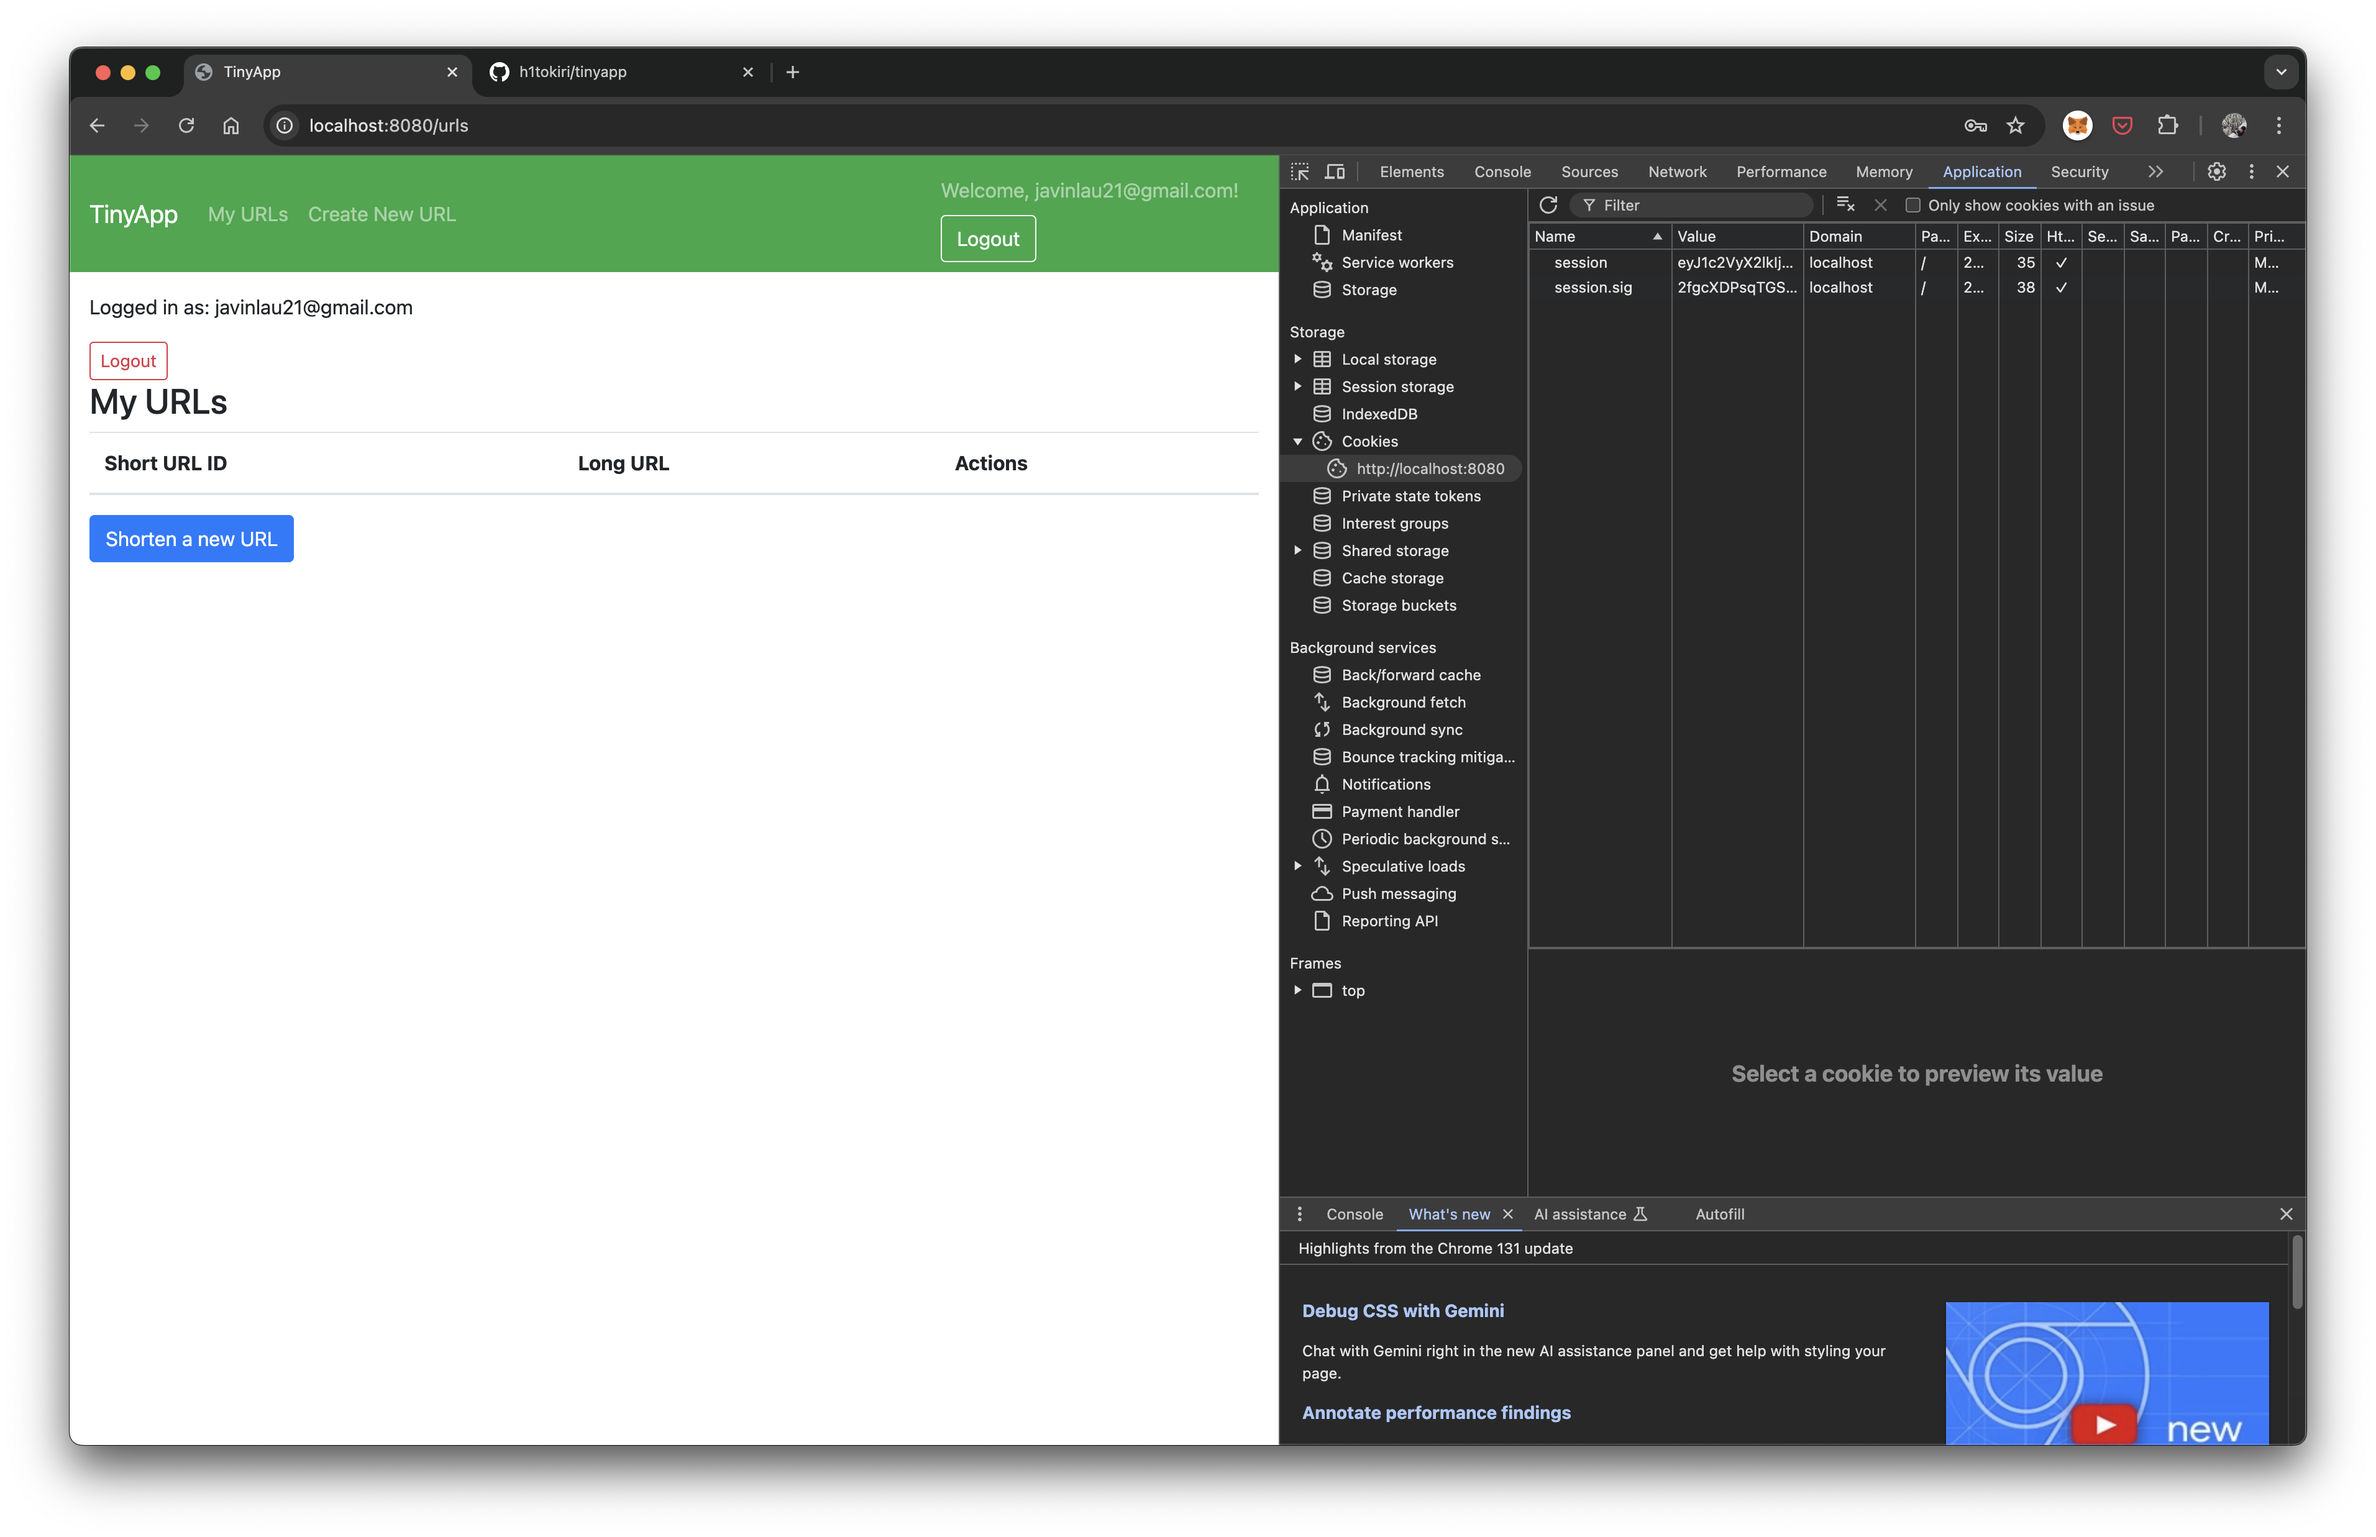
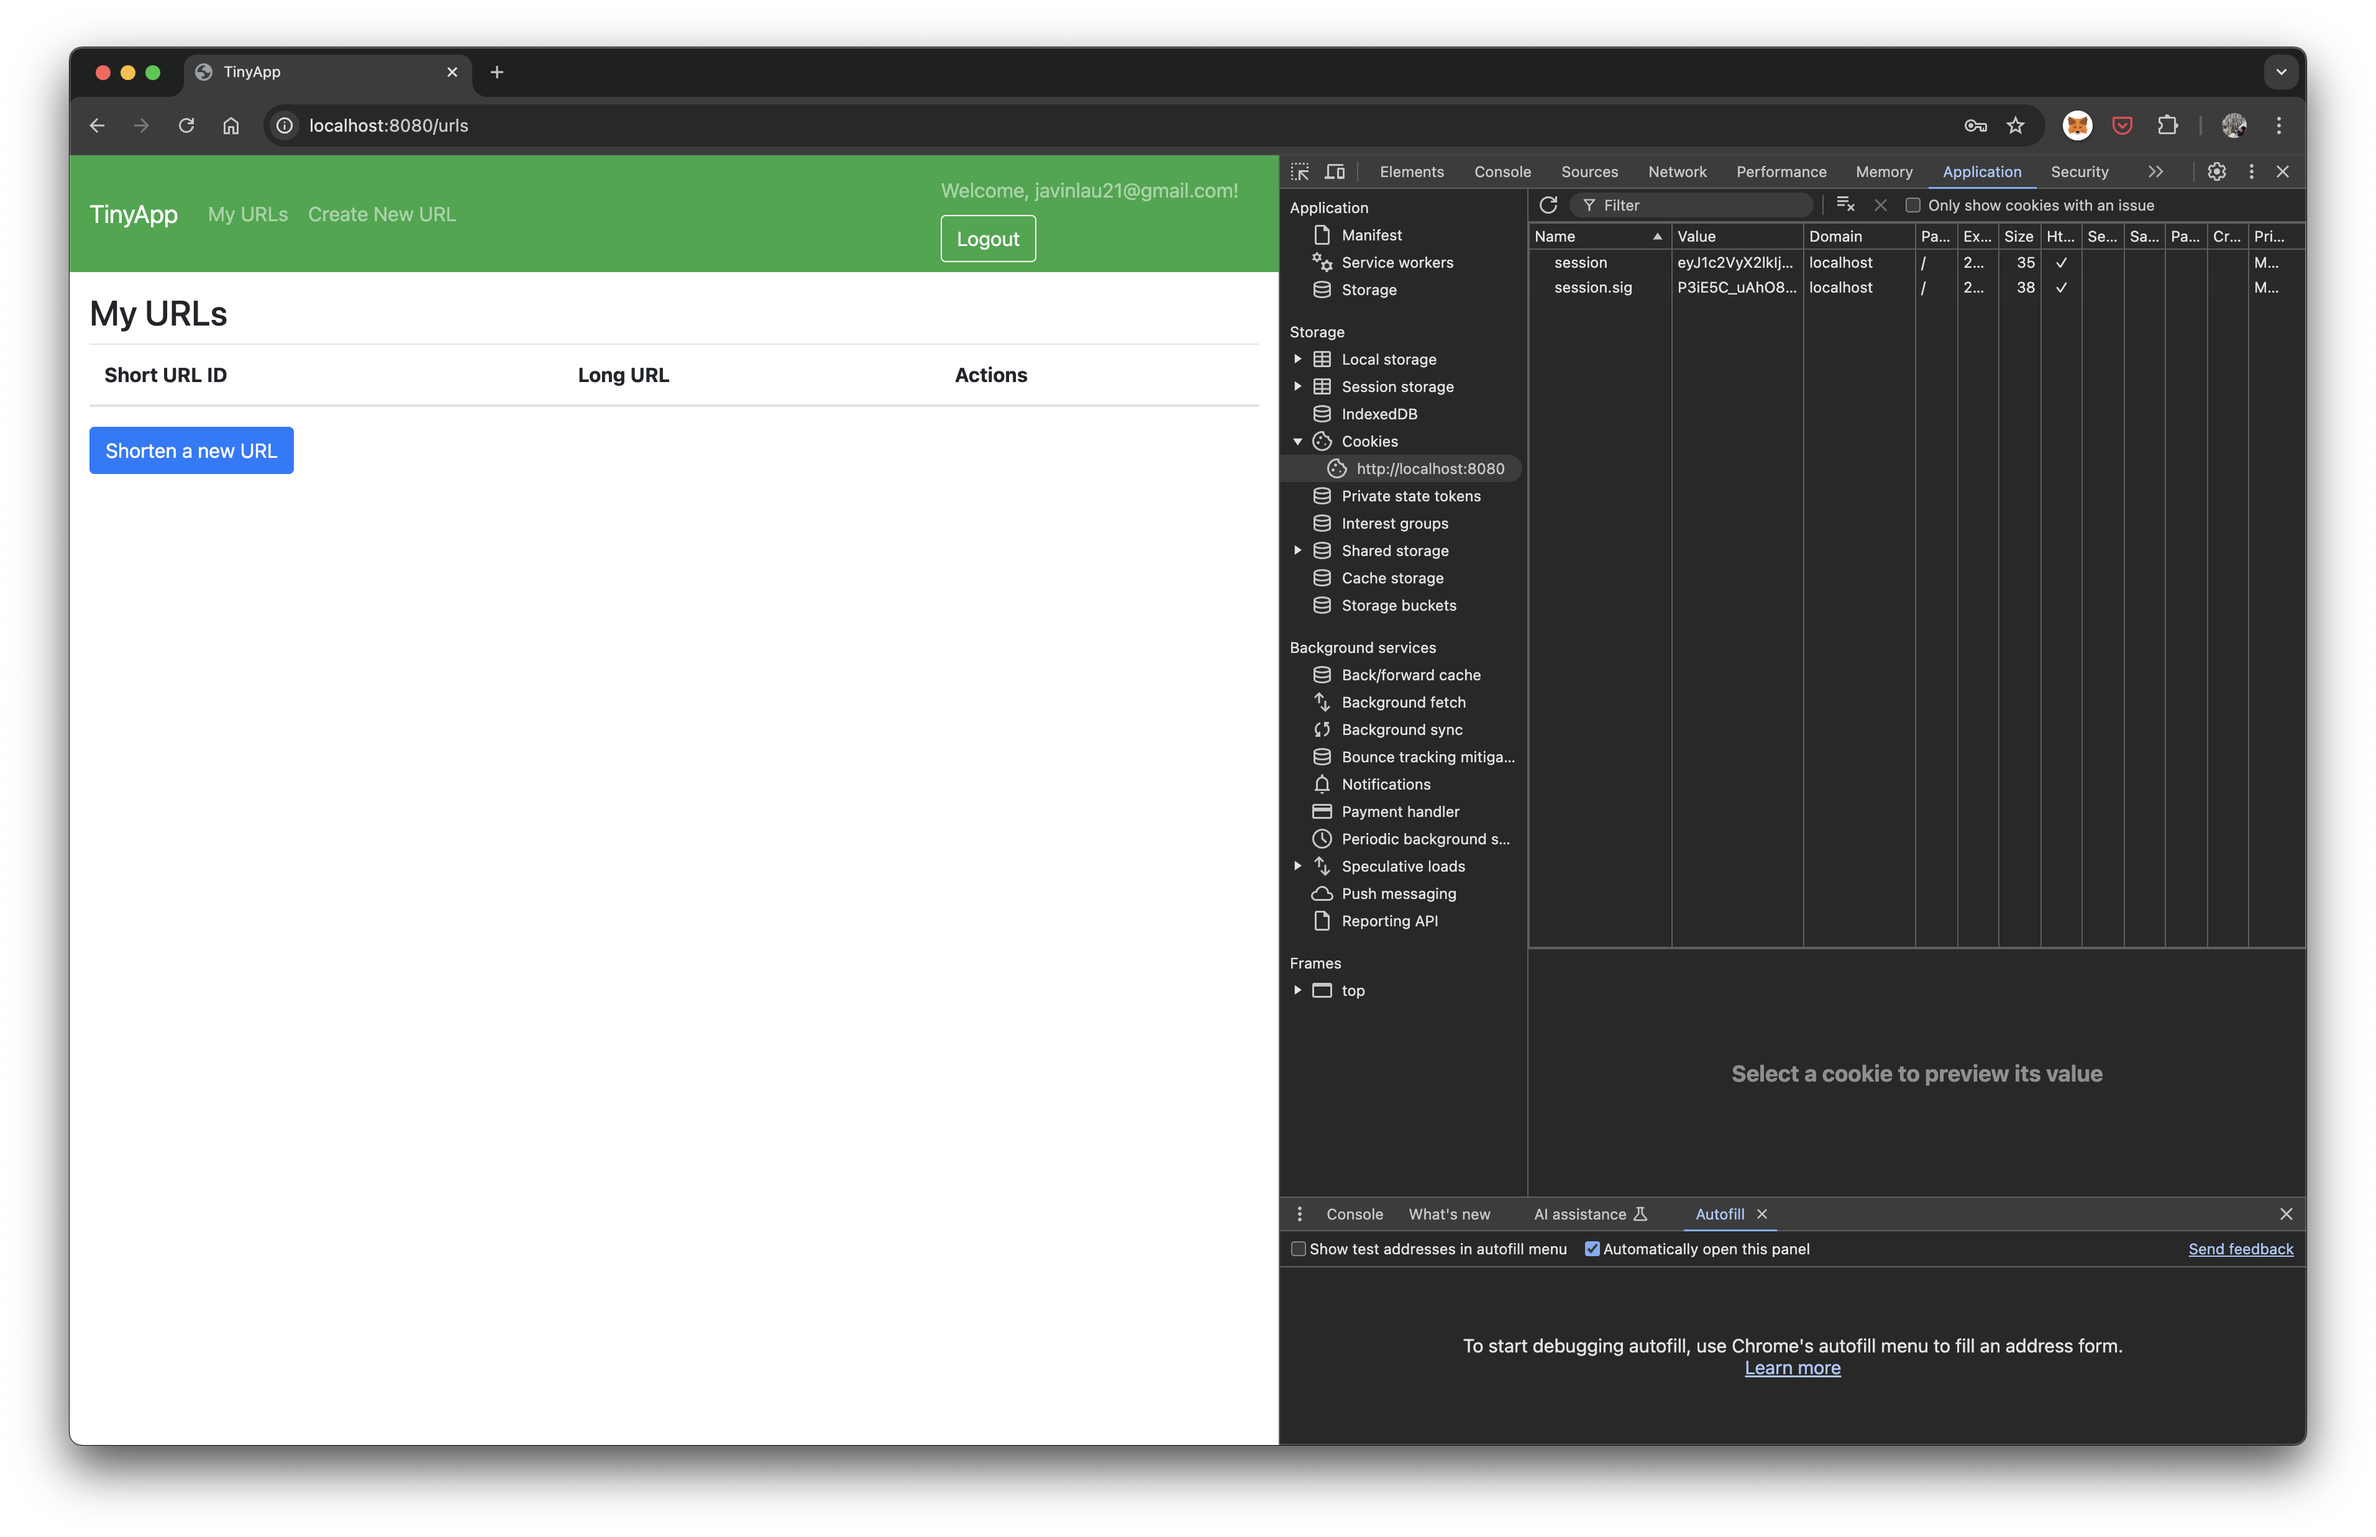
17 1409 Dec 24, fixed initial rejection reasons for tinyapp. Will need to recommit to get URLs for screnshots following this update.

diff --git a/express_server.js b/express_server.js
@@ -174,11 +174,15 @@ app.get("/urls", (req, res) => {
   const user = users[userId];
 
   if (!user) {
+    const templateVars = {
+      message: "You must log in to view your URLs.",
+      user: null
+    };
     // return res.status(401).send(`
     //   <h2>You must log in to view URLs. </h2>
     //   <a href="/login">Login</a> or <a href="/register">Register</a>
     //   `);
-    return res.redirect("/login");
+    return res.render("error_view", templateVars); // render an error view
   }
 
   const userURLs = urlsForUser(userId);
@@ -198,14 +202,12 @@ app.get("/urls/new", (req, res) => {
   if (!user) {
     // render a view prompting the user to log in or register
     const templateVars = { user };
-    return res.render("login_or_register", templateVars); // redirect to login if not logged in
+    return res.redirect("/login"); // redirect to login if not logged in
   }
 
   // const userURLs = urlsForUser(userId);
 
-  const templateVars = {
-    user // username: req.cookies.username
-  };
+  const templateVars = { user };
   res.render("urls_new", templateVars);
 });
 
@@ -265,12 +267,8 @@ app.get("/urls/:id", (req, res) => {
 });
 
 app.post("/urls/:id", (req, res) => {
-  const userId = req.session.user_id; //req.cookies.user_id; // get the short URL ID
+  const userId = req.session.user_id; // get the short URL ID
   const urlEntry = urlDatabase[req.params.id];
-
-  // if (!urlEntry || urlEntry.userId !== userId) {
-  //   return res.status(403).send("You do not have permission to edit this URL.");
-  // }
 
   if (!userId) {
     const templateVars = { message: "You must log in to view this URL.", user: null };
@@ -287,9 +285,10 @@ app.post("/urls/:id", (req, res) => {
     return res.render("error_view", templateVars);
   }
 
+  //update the long URL
   urlDatabase[req.params.id].longURL = req.body.longURL;
-  // redirect back to the URLs list
-  res.redirect("/urls");
+
+  res.redirect("/urls"); // redirect back to the URLs list
 });
 
 app.get("/urls/:id/edit", (req, res) => {

diff --git a/README.md b/README.md
@@ -8,6 +8,9 @@ TinyApp is a full stack web application built with Node and Express that allows 
 !["screenshot Registration Page"](https://github.com/h1tokiri/tinyapp/blob/main/docs/02-register.png)
 !["screenshot My URLs with Encrypted Cookie"](https://github.com/h1tokiri/tinyapp/blob/main/docs/03-my_urls_encrypted_cookie.png)
 !["screenshot My URLs with Examples and Encrypted Cookie"](https://github.com/h1tokiri/tinyapp/blob/main/docs/04-my_urls_filled.png)
+!["screenshot My URLs on Edit Page"](https://github.com/h1tokiri/tinyapp/blob/main/docs/04-my_urls_filled.png)
+!["screenshot My URLs Following Edit-Update"](https://github.com/h1tokiri/tinyapp/blob/main/docs/04-my_urls_filled.png)
+!["screenshot if User Not Logged In, HTML Error Message"](https://github.com/h1tokiri/tinyapp/blob/main/docs/04-my_urls_filled.png)
 
 ## Dependencies
 
@@ -21,3 +24,12 @@ TinyApp is a full stack web application built with Node and Express that allows 
 
 - Install all dependencies (using the `npm install` command).
 - Run the development web server using the `node express_server.js` command.
+- Use 'npm start' in terminal to initiate the application.
+
+## Updated Fixes
+
+- Functional requirements were fixed to address:
+  - When a user is logged in, there's an extra 'logout' button underneath the nav bar.
+  - Major: If a user is not logged in, GET /urls should return HTML with a relevant error message.
+  - Major: If a user is not logged in, GET /urls/new should redirect them to /login.
+  - Major: After updating a URL, the user should be redirected to GET /urls. The URL also does not update.
